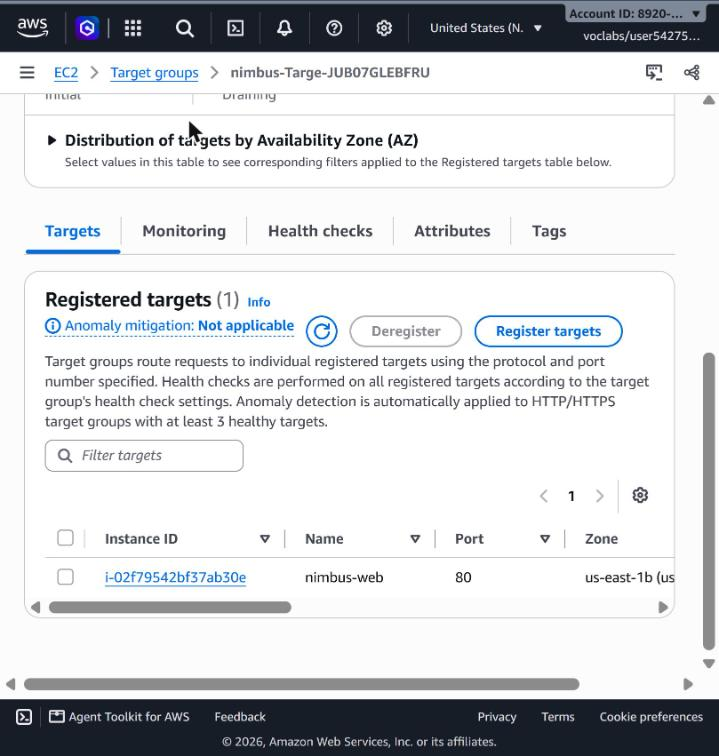
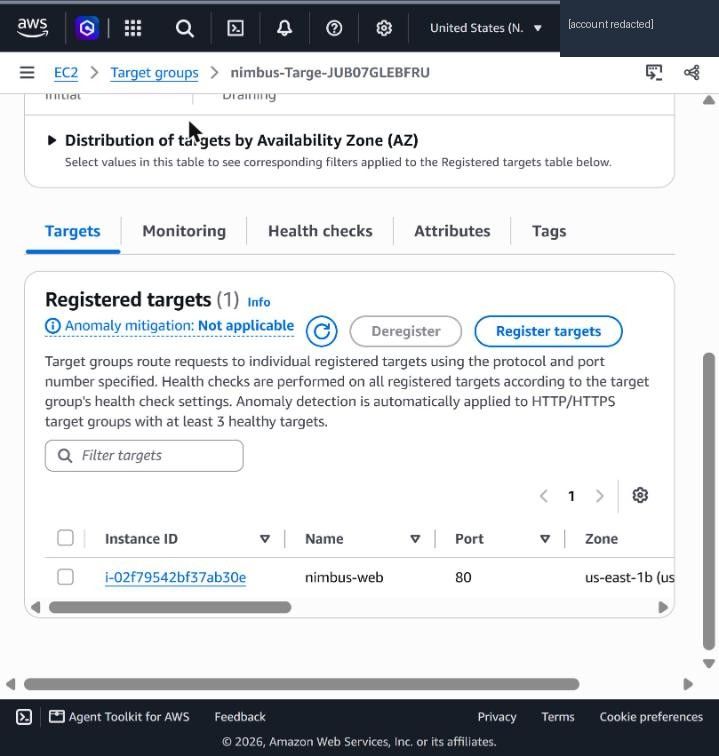
Evidence: final-code AWS run and rolling update; docs for sandbox reset
Second Sandbox session (4 Nov 15:54–18:54 SGT), from the team repository:
- Stack created at 9acd7ef in 13 minutes; Gaurav's step 12 passed on RDS
  (values identical to the Compare page; Singapore date correct).
- Rolling update to 04a80ba (team main after PR #6), changing only
  GitCommit: 239 requests every 5 s, 0 failures, data kept.
- Scaling test not run (session time ran out); still to record.
Report and 36 screenshots in docs/evidence/2026-11-04-aws-final/.

Privacy: AWS account ID and lab username blacked out in the console
screenshots here and in 2026-11-04-aws-deploy/.

Docs: the sandbox deletes everything at the end of each session (the
guide wrongly said resources are only stopped). docs/CLOUDFRONT_SANDBOX.md
now has a one-session timing table for the scaling evidence and a
presentation-day checklist; README limitations updated.

scripts/load_test.py: standard-library load generator run from a laptop,
because CloudShell ends idle sessions after ~15 minutes (which also cut
today's uptime log). Prints request rate, responses and which servers
answered. Tested locally against Gunicorn (80k requests, all 200).

Claude-Session: https://claude.ai/code/session_01Ld7oGE5bxJ6g8BeguQ9VAC

Changed region(s): [[0.765, 0.0, 1.0, 0.0913]]

diff --git a/scripts/load_test.py b/scripts/load_test.py
@@ -1,0 +1,76 @@
+"""Send steady HTTP load to Nimbus to trigger auto scaling (Feature 6 evidence).
+
+Runs on your own laptop (Python 3.10+, standard library only), so it is not
+cut off by CloudShell's inactivity timeout. Example, for 20 minutes:
+
+    python scripts/load_test.py https://dxxxxxxxxxxxx.cloudfront.net --minutes 20
+
+It requests the public login page, which goes CloudFront -> load balancer ->
+a server, and prints a summary every 30 seconds, including which servers
+answered (from the page footer). Press Ctrl+C to stop early.
+"""
+import argparse
+import re
+import threading
+import time
+import urllib.request
+from collections import Counter
+
+SERVER_RE = re.compile(rb"Server (i-[0-9a-z]+)")
+
+
+def worker(url, stop_at, stats, lock):
+    while time.time() < stop_at:
+        code, server = "error", None
+        try:
+            with urllib.request.urlopen(url, timeout=15) as resp:
+                body = resp.read()
+                code = str(resp.status)
+                m = SERVER_RE.search(body)
+                server = m.group(1).decode() if m else None
+        except urllib.error.HTTPError as exc:
+            code = str(exc.code)
+        except Exception:
+            pass
+        with lock:
+            stats["codes"][code] += 1
+            if server:
+                stats["servers"][server] += 1
+
+
+def main():
+    ap = argparse.ArgumentParser(description=__doc__, formatter_class=argparse.RawDescriptionHelpFormatter)
+    ap.add_argument("app_url", help="the stack's ApplicationURL, e.g. https://dxxxx.cloudfront.net")
+    ap.add_argument("--minutes", type=float, default=20)
+    ap.add_argument("--threads", type=int, default=20)
+    args = ap.parse_args()
+    url = args.app_url.rstrip("/") + "/login"
+    stop_at = time.time() + args.minutes * 60
+    stats = {"codes": Counter(), "servers": Counter()}
+    lock = threading.Lock()
+    for _ in range(args.threads):
+        threading.Thread(target=worker, args=(url, stop_at, stats, lock), daemon=True).start()
+
+    print(f"Sending load to {url} with {args.threads} threads for {args.minutes:g} minutes. Ctrl+C to stop.")
+    last_total = 0
+    try:
+        while time.time() < stop_at:
+            interval = max(1.0, min(30.0, stop_at - time.time()))
+            time.sleep(interval)
+            with lock:
+                total = sum(stats["codes"].values())
+                codes = dict(stats["codes"])
+                servers = dict(stats["servers"])
+                stats["servers"].clear()
+            rate = (total - last_total) / interval
+            last_total = total
+            print(f"{time.strftime('%H:%M:%S')}  {rate * 60:,.0f} requests/min  "
+                  f"responses so far {codes}  servers since last line: {len(servers)} {sorted(servers)}")
+    except KeyboardInterrupt:
+        print("Stopped.")
+    with lock:
+        print(f"Total responses: {dict(stats['codes'])}")
+
+
+if __name__ == "__main__":
+    main()

diff --git a/docs/evidence/2026-11-04-aws-final/qa-report.md b/docs/evidence/2026-11-04-aws-final/qa-report.md
@@ -1,0 +1,140 @@
+# Nimbus RM – Feature 6 AWS Evidence Report
+
+**Date:** 2026-11-04 (all times SGT, UTC+8)
+**Environment:** AWS Academy Sandbox, us-east-1. The session ran 15:54:16–18:54:16 SGT.
+**Stack:** `nimbus`. Created at commit `9acd7ef6342390cb2f76d11557e627227adda131`, then updated to `04a80ba94002ce94f75e539f04b7758c61d68648`.
+**Tester:** Claude (read-only on AWS). The user ran the CloudShell commands and the stack update.
+
+## 1. Summary
+
+| Phase | Result | Key times (SGT) |
+|---|---|---|
+| A – Stack creation | **PASS** | Created 16:19:14, CREATE_COMPLETE 16:32:35 |
+| B – Acceptance step 12 on RDS | **PASS** | Compare and save at 16:48. Saved values equal the compare values. Search "apple" returned 1 row |
+| C – Rolling update | **PASS** | Submitted 17:04:10, cutover 17:06:27, 0 failed requests in 239. Data kept after the update (checked 18:38) |
+| D – Scaling test | **NOT RUN** | Sandbox time ran out (under 30 min left by 18:36). No scale-out, cross-server reopen or scale-in evidence |
+
+## 2. Details
+
+### 2.1 Stack outputs (Phase A)
+
+| Key | Value |
+|---|---|
+| ApplicationURL | https://d3t99542k07ov6.cloudfront.net |
+| AutoScalingGroupName | nimbus-WebServerGroup-s4NnnJdcPJB3 |
+| CloudFrontDistributionId | E141OMN8WX52HI |
+| DatabaseEndpoint | nimbus-database-vb6sh8eqzicq.cdgyu2umrhtq.us-east-1.rds.amazonaws.com |
+| DeployedCommit | 9acd7ef6342390cb2f76d11557e627227adda131 |
+| LoadBalancerDNSName | nimbus-LoadB-39IkLnc98QLv-1108638929.us-east-1.elb.amazonaws.com |
+| SnapshotArchiveBucketName | nimbus-snapshotarchivebucket-hz4cvm9lxm0n |
+| VpcId | vpc-0fc0a01e2a699dbb8 |
+
+**Auto Scaling group** (created 16:27:54)
+
+- Capacity: desired 1, scaling limits 1–3, status "At desired capacity".
+- `nimbus-CpuScalingPolicy-UFwEaMylr6q3`: target tracking, average CPU utilization 60, warm-up 300 s, scale-in enabled.
+- `nimbus-RequestScalingPolicy-jb1qDEiCp3RO`: target tracking, ALB request count per target 300, warm-up 300 s, scale-in enabled.
+- Instance after creation: `i-03fe1f736b2b28202`, InService, t3.micro, use1-az6, Healthy.
+
+### 2.2 Compare vs saved (Phase B)
+
+The home page footer at 16:48 read `Server i-03fe1f736b2b28202 · commit 9acd7ef`.
+
+| | Compare: last price | Saved: price (price date) | Rev growth (compare / saved) | Net margin | D/E | FY |
+|---|---|---|---|---|---|---|
+| AAPL | USD 331.90 | USD 331.90 (03 Nov 2026) | +6.4% / +6.4% | 26.9% / 26.9% | 1.34× / 1.34× | 2025 |
+| MSFT | USD 520.99 | USD 520.99 (03 Nov 2026) | +17.8% / +17.8% | 40.3% / 40.3% | 0.13× / 0.13× | 2026 |
+
+Compare also showed these figures:
+
+- **AAPL:** 1y return +23.4%, volatility 24.3%, max drawdown −13.8%, market cap 4.84T.
+- **MSFT:** 1y return +2.1%, volatility 33.1%, max drawdown −31.0%, market cap 3.87T.
+
+**Saved record** (`/discussions/1`, saved once at 04 Nov 2026 16:48 SGT)
+
+- Client: C-AWS-01 · AWS Test Client.
+- Discussion date: 04 Nov 2026, which is today in Singapore.
+- Interests: "Dividend income; worried about AI valuations". Notes: "AWS final run".
+- Banner: "Saved the discussion with C-AWS-01 · AWS Test Client. This is the record as saved; reopening it never fetches new data."
+
+**Search:** Company "apple" returned 1 row: 04 Nov 2026, AWS Test Client, C-AWS-01, AAPL USD 331.90 and MSFT USD 520.99.
+
+### 2.3 Rolling update (Phase C)
+
+**What changed:** only GitCommit (screenshot 21 shows only that field). The change set preview listed four resources to modify:
+
+- CpuScalingPolicy
+- LaunchTemplate
+- RequestScalingPolicy
+- WebServerGroup
+
+No RDS or CloudFront resources were in the change set, and no IAM acknowledgement was needed. (The change set comes from the user's notes. Claude did not see it.)
+
+**Uptime log summary** (`rolling-update.log`, screenshot 26, copied exactly):
+```
+239 rolling-update.log
+16:58:13 HTTP200 Server i-03fe1f736b2b28202 · commit 9acd7ef
+17:18:12 HTTP200 Server i-07d2dee07752ad24e · commit 04a80ba
+NON200: 0
+CHANGES:
+16:58:13 HTTP200 i-03fe1f736b2b28202 9acd7ef
+17:06:27 HTTP200 i-07d2dee07752ad24e 04a80ba
+```
+- **Result: 239 requests, 0 non-HTTP200.** The cutover happened once, with no switching back.
+
+**Data kept (C4, reopened at 18:38):** C-AWS-01 shows the footer `Server i-07d2dee07752ad24e · commit 04a80ba`. The values are unchanged from B4:
+
+- AAPL USD 331.90, +6.4%, 26.9%, 1.34×.
+- MSFT USD 520.99, +17.8%, 40.3%, 0.13×.
+- Interests, notes and the saved time (16:48 SGT) are also unchanged.
+
+**State afterwards (18:38):** desired 1, limits 1–3, "At desired capacity". There is 1 instance, `i-07d2dee07752ad24e`, which is InService.
+
+### 2.4 Server IDs seen for C-AWS-01
+
+| Time | Server | Commit |
+|---|---|---|
+| 16:48 (save) | i-03fe1f736b2b28202 | 9acd7ef |
+| 18:38 (reopen) | i-07d2dee07752ad24e | 04a80ba |
+
+### 2.5 Scaling timeline (Phase D)
+
+Not run. No alarm states, load-test data, multi-target health or scale-in were recorded.
+
+### 2.6 Auto Scaling Activity history (full text, copied 18:38)
+
+```
+Successful | Terminating EC2 instance: i-03fe1f736b2b28202 | At 2026-11-04T09:06:24Z instance i-03fe1f736b2b28202 was taken out of service in response to a user request, shrinking the capacity from 2 to 1. | Start 2026 November 04, 05:06:24 PM +08:00 | End 2026 November 04, 05:07:17 PM +08:00
+Successful | Launching a new EC2 instance: i-07d2dee07752ad24e | At 2026-11-04T09:04:30Z a user request update of AutoScalingGroup constraints to min: 2, max: 3, desired: 2 changing the desired capacity from 1 to 2. At 2026-11-04T09:04:39Z an instance was started in response to a difference between desired and actual capacity, increasing the capacity from 1 to 2. | Start 2026 November 04, 05:04:41 PM +08:00 | End 2026 November 04, 05:09:46 PM +08:00
+Successful | Launching a new EC2 instance: i-03fe1f736b2b28202 | At 2026-11-04T08:27:55Z a user request update of AutoScalingGroup constraints to min: 1, max: 3, desired: 1 changing the desired capacity from 0 to 1. At 2026-11-04T08:27:58Z an instance was started … (rest of the cause text cut off in the console extract)
+```
+
+## 3. Unexpected items and deviations
+
+1. **Phase D was not executed.** The Sandbox had 18 minutes left at about 18:37. The rolling update finished at about 17:10, but the next step was not resumed until 18:31.
+2. **The update briefly raised the ASG minimum to 2.** The rolling update set min 2 / max 3 / desired 2 at 17:04:30, then set it back to 1. This is expected behaviour for a CloudFormation rolling update.
+3. **Old instance terminated before the new launch activity closed.** The old instance's termination started at 17:06:24. The new instance's launch activity was still open until 17:09:46, but traffic was already on the new server from 17:06:27 and no request failed.
+4. **The uptime log ended early.** CloudShell ended the session after inactivity, so the log stops at 17:18:12, about 12 minutes after the cutover. The update was still in progress then. UPDATE_COMPLETE was confirmed by the user at 18:31, and there is **no screenshot of UPDATE_COMPLETE** in the set.
+5. **The log was summarised differently from C3.** Instead of the exact `grep -c` / `grep -vc` / `awk | uniq` commands from C3, a combined one-shot summary was used: line count, first and last lines, non-200 count and change points. It gives the same facts.
+6. **Opening CloudShell in a second tab disconnected the first tab's view.** It reconnected with no gap in the log.
+7. **Cookie banner alert.** The console showed "Unable to save cookie preferences". It had no effect on the test.
+8. **Screenshot 23 shows identifying details.** It contains the AWS account ID and lab username in the console header. No secrets or stack Parameters values appear in any screenshot.
+
+## 4. Screenshot index
+
+| # | Phase | Shows |
+|---|---|---|
+| 01, 01b | A | Stack CREATE_COMPLETE (Stack info and Events) |
+| 02a, 02b | A | Outputs tab |
+| 03 | A | ASG details (desired 1, limits 1–3) |
+| 04 | A | Automatic scaling (both policies) |
+| 05a, 05b | A | Instance management (1 InService, Healthy) |
+| 06 | A | Activity (1 launch) |
+| 07 | B | Home page and footer |
+| 08a, 08b | B | Compare AAPL/MSFT 1y (glance and key financials) |
+| 09a, 09b | B | Saved discussion (banner and record table) |
+| 10 | B | Discussions search "apple" |
+| 11–26 | C | User-captured rolling update (CloudShell loop, GitCommit-only change, UPDATE_IN_PROGRESS, log summary) |
+| 27–29 | C4 | C-AWS-01 reopened (record, table, footer at commit 04a80ba) |
+| 30 | C | ASG Activity after update (launch, then terminate) |
+| 31 | C | Instance management after update (1 instance, i-07d2dee07752ad24e) |

diff --git a/docs/CLOUDFRONT_SANDBOX.md b/docs/CLOUDFRONT_SANDBOX.md
@@ -1,5 +1,7 @@
 # Nimbus RM on the AWS Academy sandbox
 
+> **The sandbox deletes everything when its session ends**: the stack, the database and every saved discussion. Plan each AWS task (demo, evidence recording, presentation) to fit inside **one** session, and create the stack fresh at the start. Creation took 13–16 minutes in our runs.
+
 One CloudFormation stack, [`infra/nimbus-merged-stack.yaml`](../infra/nimbus-merged-stack.yaml), creates the network, a load balancer, an Auto Scaling group of application servers, the private RDS database and the CloudFront distribution. It targets the AWS Academy sandbox described in [`AWS_ACADEMY_SANDBOX_LIMITATIONS.txt`](AWS_ACADEMY_SANDBOX_LIMITATIONS.txt) and must be deployed in **us-east-1**.
 
 ## Architecture
@@ -41,30 +43,46 @@ CloudFront provides HTTPS at its generated `*.cloudfront.net` hostname, so no do
 
 **Update stack → Use current template** → change only **GitCommit** → submit.
 
-The launch template gets a new version, and the Auto Scaling group replaces the servers **one at a time**: it starts a server with the new commit, waits for its success signal, then removes an old one. The load balancer keeps sending traffic to healthy servers throughout, and the database is not touched. When the update completes, the footer shows the new commit.
+The launch template gets a new version, and the Auto Scaling group replaces the servers **one at a time**: it starts a server with the new commit, waits for its success signal, then removes an old one. (While it does this, CloudFormation temporarily raises the group's minimum to 2; it returns to 1 afterwards.) The load balancer keeps sending traffic to healthy servers throughout, and the database is not touched. When the update completes, the footer shows the new commit.
 
 **Never delete the stack to redeploy:** RDS has `DeletionPolicy: Delete`, so deleting the stack deletes every saved discussion.
 
 ## Recording the Feature 6 scaling evidence
 
-The instructor accepts recorded evidence kept in the repository (decision D-02). Save everything in `docs/evidence/<date>-scaling/`, with a `README.md` naming the stack's **DeployedCommit** output.
+The instructor accepts recorded evidence kept in the repository (decision D-02). Save everything in `docs/evidence/<date>-scaling/`, with a `README.md` naming the stack's **DeployedCommit** output. Because the sandbox is wiped at the end of the session, **do all of this in the same session as creating the stack**, and keep the steps moving.
+
+| Step | Typical time |
+|---|---|
+| Create the stack | 15 min |
+| Register, save one discussion | 5 min |
+| Load until 2–3 servers are healthy | 10–15 min |
+| Reopen the discussion from two servers | 5 min |
+| Stop load, wait for scale-in | 15–25 min |
+| **Total** | **about 60–70 min** (start with at least 90 min on the session timer) |
 
 1. **Before:** screenshot **EC2 → Auto Scaling groups → (AutoScalingGroupName output)**: *Desired 1, Min 1, Max 3*, and the **Automatic scaling** tab showing both target-tracking policies.
 2. **Save a discussion** in the app (Compare two companies → Save this discussion) and note the footer's server ID.
-3. **Generate load** from **CloudShell** (top bar of the console), replacing the URL with your ApplicationURL:
+3. **Generate load from your laptop**, not CloudShell. CloudShell ends its session after about 15 minutes without a keypress, which stops anything running in it. In the project folder, with the virtual environment active:
 
    ```bash
-   URL=https://dxxxxxxxxxxxx.cloudfront.net/login
-   for i in $(seq 1 20); do
-     ( end=$((SECONDS+900)); while [ $SECONDS -lt $end ]; do curl -s -o /dev/null "$URL"; done ) &
-   done; wait
+   python scripts/load_test.py https://dxxxxxxxxxxxx.cloudfront.net --minutes 20
    ```
 
-   This sends roughly 20–40 requests per second for 15 minutes, well above the 300 requests per server per minute target.
-4. **Scale-out:** within about 3–5 minutes the request alarm goes into *In alarm* (CloudWatch → Alarms, names start with `TargetTracking-`). The group's **Activity** tab shows *Launching a new EC2 instance*, and **Instance management** shows 2–3 instances. **Target groups → Targets** shows them becoming *healthy* (6–9 minutes each). Screenshot each.
+   It sends thousands of requests per minute (well above the 300 requests per server per minute target) and prints, every 30 seconds, the request rate, the responses, and which servers answered. Keep its output for the evidence README.
+4. **Scale-out:** within about 3–5 minutes the request alarm goes into *In alarm* (CloudWatch → Alarms, names start with `TargetTracking-`). The group's **Activity** tab shows *Launching a new EC2 instance*, and **Instance management** shows 2–3 instances. **Target groups → Targets** shows them becoming *healthy* (5–9 minutes each). The load script's "servers" list grows at the same time. Screenshot each.
 5. **Any server reopens any discussion:** while two or more servers are healthy, open **Discussions → Open** on the saved discussion and reload a few times. The footer's server ID changes while the record stays identical. Screenshot two different server IDs with the same record.
 6. **Scale-in:** stop the load (Ctrl+C, or let it finish). About 15 minutes later the low-load alarm fires and the Activity tab shows *Terminating EC2 instance*, back to 1. Screenshot it.
 7. Copy the Activity history text into the evidence README. Any change you make by hand to *Desired capacity* must be labelled **manual**, separately from this automatic test.
+
+## Presentation-day checklist
+
+Nothing from earlier sessions exists on the day, so:
+
+1. **45 minutes before:** start the sandbox (check the session timer covers the whole presentation) and create the stack from the team repository with the final commit (see *Deploy (first time)*). Generate fresh secrets.
+2. **When `CREATE_COMPLETE`:** open the ApplicationURL, register a login, and run one comparison so the market data is cached.
+3. **During the demo:** Compare → Save this discussion → Discussions search → Open. Show the footer (server and commit) and the Auto Scaling group page.
+4. **For scaling:** show the recorded evidence in `docs/evidence/` (scale-out takes too long to show live).
+5. **Afterwards:** nothing to clean up; the sandbox deletes everything when the session ends.
 
 ## Why these resources and settings
 
@@ -87,8 +105,9 @@ The instructor accepts recorded evidence kept in the repository (decision D-02).
 
 ## Considerations and limitations
 
-- **Timing:** a new server needs about 6–9 minutes to install the app, and target tracking waits about 15 minutes of low load before removing servers. Record the scaling test in advance rather than live.
-- **Session cleanup and data loss:** the sandbox stops resources when its timer expires. Deleting the stack deletes the database. The snapshot archive bucket is retained; delete it manually when no longer needed.
+- **Session reset:** the sandbox deletes all resources, including the database, when the session timer reaches 0:00. Saved discussions do not survive between sessions; this is a property of the course sandbox, not of the design (in a normal AWS account the stack and RDS persist).
+- **Timing:** a new server needs about 5–9 minutes to install the app, and target tracking waits about 15 minutes of low load before removing servers. Record the scaling test in advance rather than live.
+- **Deleting the stack** deletes the database. The snapshot archive bucket is retained until the sandbox session ends.
 - **Snapshot archive:** a monthly timer moves stock notes whose `discussed_on` date is more than five years old from RDS to private, SSE-S3-encrypted S3 objects, verifying each object before deleting the row; S3 moves them to Glacier Flexible Retrieval after 30 days. Run it now with Session Manager: `sudo -u nimbus /opt/nimbus/.venv/bin/flask --app wsgi archive-snapshots`. Confirm `LabInstanceProfile` allows `s3:PutObject` and `s3:GetObject` on the bucket; otherwise the job fails without deleting anything.
 - **Secrets:** CloudFormation `NoEcho` hides parameter values in most displays, but the values are in the launch template's user data, readable by anyone with console access to it. Use generated secrets, never commit them, and delete the stack after the course.
 - **Per-server cache:** each server caches market data for 15 minutes in its own memory, so two servers may each fetch the same figures once. Saved discussions are unaffected: they are read from RDS.

diff --git a/docs/evidence/2026-11-04-aws-final/README.md b/docs/evidence/2026-11-04-aws-final/README.md
@@ -1,0 +1,38 @@
+# AWS final-code deployment, step 12 on RDS and rolling update (4 Nov 2026)
+
+| Item | Value |
+|---|---|
+| Repository | Team repository `pujoglekar2026/DS600-Group-Proj` |
+| Commits | Stack created at `9acd7ef6342390cb2f76d11557e627227adda131`, then rolling-updated to **`04a80ba94002ce94f75e539f04b7758c61d68648`** (team `main` after PR #6) |
+| Template | `infra/nimbus-merged-stack.yaml` (unchanged from `378c077`, which passed 13/13 infrastructure checks in [`../2026-11-04-aws-deploy/`](../2026-11-04-aws-deploy/)) |
+| When | Sandbox session 15:54–18:54 SGT; stack created 16:19–16:32 SGT |
+| Who | Deployed and updated by Fazly Effendy; recorded by Claude in Chrome (read-only on AWS); reviewed by Claude |
+
+## Results
+
+| Phase | Result | Evidence |
+|---|---|---|
+| A. Stack created from the team repository | **Pass**: `CREATE_COMPLETE` in 13 minutes; Auto Scaling group 1–3 with both target-tracking policies (CPU 60, 300 requests per target) | 01–06 |
+| B. Gaurav's step 12 on RDS | **Pass**: C-AWS-01 saved once; AAPL USD 331.90 and MSFT USD 520.99 and all ratios identical to the Compare page; discussion date 04 Nov 2026 (Singapore date, D-14 fix confirmed); search "apple" finds it | 07–10 |
+| C. Rolling update `9acd7ef` → `04a80ba` (only GitCommit changed) | **Pass**: uptime log 239 requests every 5 s, **0 failures**; traffic moved from `i-03fe1f736b2b28202` (9acd7ef) to `i-07d2dee07752ad24e` (04a80ba) at 17:06:27 SGT; C-AWS-01 unchanged after the update | 11–31 |
+| D. Scale-out / scale-in under load | **Not run**: the sandbox session ran out. To be recorded in a separate session | — |
+
+Uptime log summary (screenshot 26):
+
+```
+239 rolling-update.log
+16:58:13 HTTP200 Server i-03fe1f736b2b28202 · commit 9acd7ef
+17:18:12 HTTP200 Server i-07d2dee07752ad24e · commit 04a80ba
+NON200: 0
+CHANGES:
+16:58:13 HTTP200 i-03fe1f736b2b28202 9acd7ef
+17:06:27 HTTP200 i-07d2dee07752ad24e 04a80ba
+```
+
+Auto Scaling activity (copied from the console): the group temporarily went to min 2 / desired 2 at 17:04:30, launched the new server, then terminated the old one at 17:06:24 and returned to 1. This is how a CloudFormation rolling update with `MinInstancesInService: 1` works.
+
+## Notes
+
+- The AWS account ID and lab username in the console header are blacked out in the screenshots (here and in `2026-11-04-aws-deploy/`). No secrets or stack parameter values appear.
+- The uptime log stopped at 17:18 because CloudShell ends idle sessions after about 15 minutes; by then traffic had been on the new server for 12 minutes with no failures. For this reason the scaling test now runs its load from a laptop (`scripts/load_test.py`).
+- No screenshot of `UPDATE_COMPLETE`; the user confirmed it at 18:31 and the Activity history shows both the launch and the termination completed.

diff --git a/README.md b/README.md
@@ -104,6 +104,8 @@ DS600-Group-Proj/
 │   ├── nimbus.service     # systemd unit for Gunicorn
 │   ├── nimbus-archive.service # systemd service for snapshot archiving
 │   └── nimbus-archive.timer # Monthly archive schedule
+├── scripts/
+│   └── load_test.py       # Sends load from a laptop to trigger auto scaling (evidence)
 ├── docs/
 │   ├── CLOUDFRONT_SANDBOX.md # Sandbox deployment steps, rationale, considerations
 │   ├── AWS_ACADEMY_SANDBOX_LIMITATIONS.txt # AWS Academy lab restrictions and access instructions
@@ -192,6 +194,7 @@ This is also Gaurav's acceptance test, in order:
 
 - **HTTPS** — CloudFront serves HTTPS with its default certificate; the hop from CloudFront to the load balancer is HTTP inside AWS, protected by the secret origin header. A custom domain with an AWS Certificate Manager certificate is not possible in the sandbox.
 - **Secrets** — the database password is passed as a CloudFormation parameter. In production it should come from AWS Secrets Manager.
+- **Sandbox resets** — the AWS Academy sandbox deletes every resource, including the database, when the session ends. The stack is created fresh at the start of each session (about 15 minutes), so saved discussions last only for that session. In a normal AWS account they would persist.
 - **Availability** — the servers scale across two Availability Zones, but the database is single-AZ (the sandbox does not support RDS Multi-AZ) and is deleted with the stack.
 - **Scaling speed** — a new server takes about 6–9 minutes to install the app, and target tracking removes servers only after about 15 minutes of low load, so scaling is visible in minutes, not seconds.
 - **Per-server memory** — each server caches market data for 15 minutes in its own memory, so two servers may briefly fetch the same figures. Saved discussions are never affected: they live in RDS.
